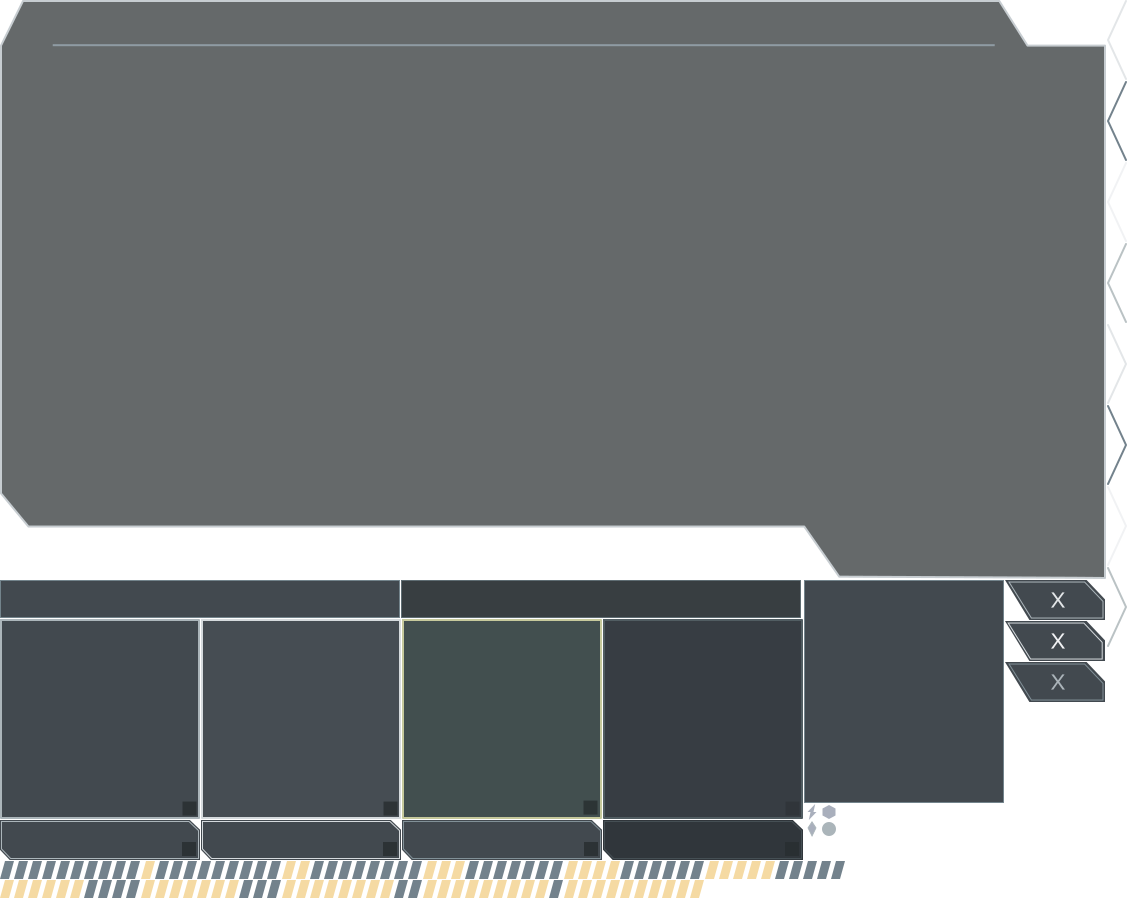
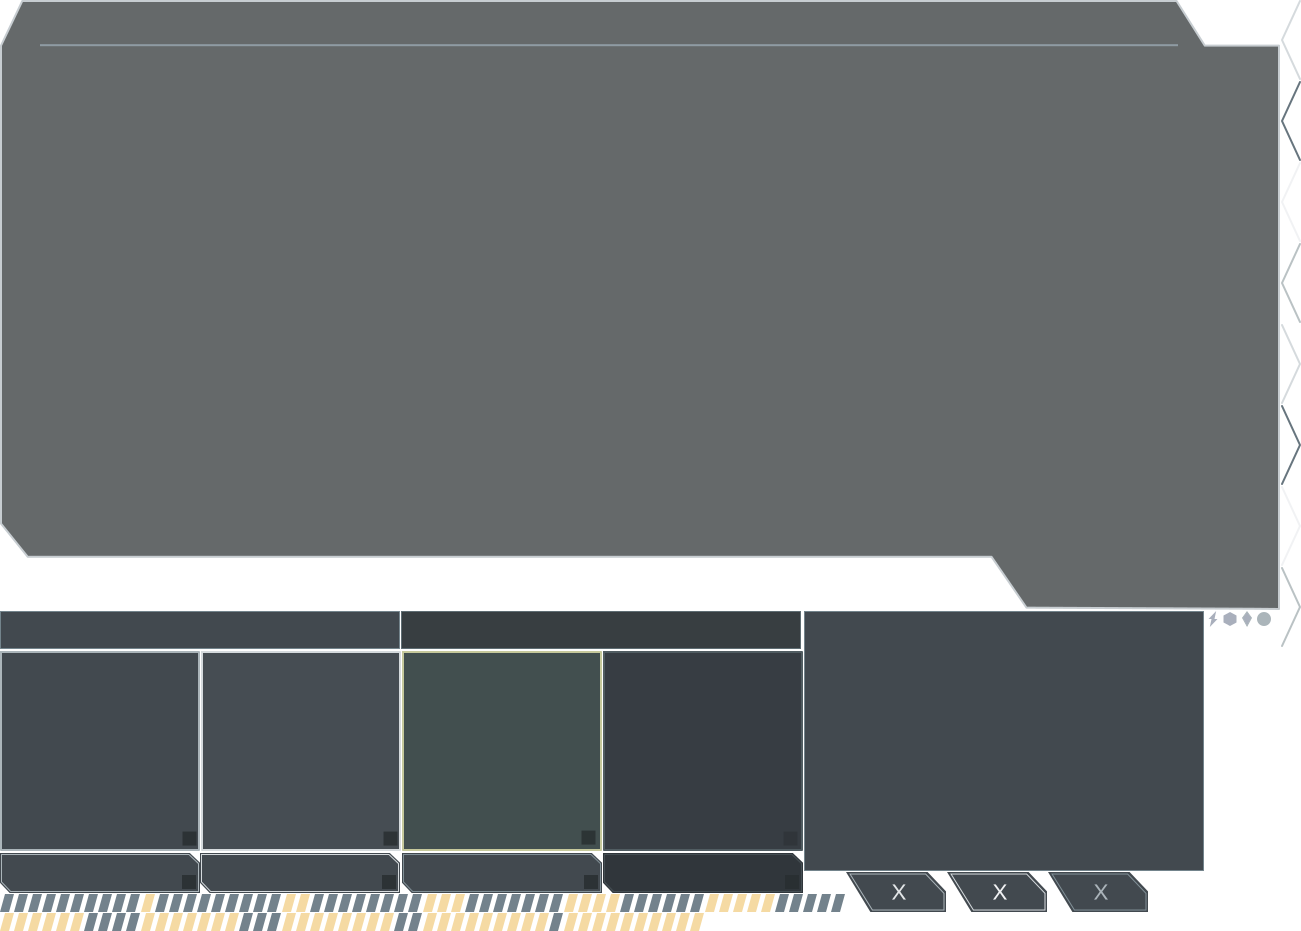
Implement new version of dialog to create elements (WIP)
Implemented, but using placeholder text for now.

Changed region(s): [[0.0, 0.0, 1.0, 1.0], [0.0, 0.0, 0.0311, 0.0312]]

diff --git a/src/Widgets/DialogNewElement.cpp b/src/Widgets/DialogNewElement.cpp
@@ -18,13 +18,14 @@
 #include <sgui/ButtonsGroup.h>
 #include <sgui/Image.h>
 #include <sgui/Label.h>
+#include <sgui/TextArea.h>
 
 #include <cassert>
 
 namespace game
 {
 
-constexpr int NUM_SLOTS = 5;
+constexpr int NUM_SLOTS = 6;
 
 class ImageButton : public lib::sgui::PushButton
 {
@@ -392,10 +393,11 @@ const int ButtonSlot::KEYS[NUM_SLOTS] = {
                                             lib::core::KeyboardEvent::KEY_3,
                                             lib::core::KeyboardEvent::KEY_4,
                                             lib::core::KeyboardEvent::KEY_5,
+                                            lib::core::KeyboardEvent::KEY_6
                                         };
 
 
-const char * ButtonSlot::SHORTCUTS[NUM_SLOTS] = { "1", "2", "3", "4", "5" };
+const char * ButtonSlot::SHORTCUTS[NUM_SLOTS] = { "1", "2", "3", "4", "5", "6" };
 
 // ===== ATTRIBUTE PANEL =====
 
@@ -546,8 +548,8 @@ DialogNewElement::DialogNewElement(const std::vector<ObjectData> & data, const c
     auto fm = lib::graphic::FontManager::Instance();
     auto tm = lib::graphic::TextureManager::Instance();
 
-    const int marginL = 52;
-    const int marginT = 6;
+    const int marginL = 40;
+    const int marginT = 8;
 
     // BACKGROUND
     lib::graphic::Texture * tex = tm->GetSprite(SpriteFileNewElementDialog, IND_NE_DIALOG_BG);
@@ -583,7 +585,7 @@ DialogNewElement::DialogNewElement(const std::vector<ObjectData> & data, const c
         mSlots->AddButton(slot);
     }
 
-    const int slotsY0 = 66;
+    const int slotsY0 = 65;
     mSlots->SetPosition(marginL, slotsY0);
 
     const int marginButtonsLR = 10;
@@ -621,7 +623,7 @@ DialogNewElement::DialogNewElement(const std::vector<ObjectData> & data, const c
     });
 
     // INFO PANEL
-    const int slotsMarginBottom = 20;
+    const int slotsMarginBottom = 15;
 
     const int panelY0 = slotsY0 + mSlots->GetHeight() + slotsMarginBottom;
     tex = tm->GetSprite(SpriteFileNewElementDialog, IND_NE_DIALOG_INFO);
@@ -634,33 +636,52 @@ DialogNewElement::DialogNewElement(const std::vector<ObjectData> & data, const c
     auto fontHeader = fm->GetFont("data/fonts/Lato-Bold.ttf", 18, lib::graphic::Font::NORMAL);
     auto fontText = fm->GetFont("data/fonts/Lato-Regular.ttf", 17, lib::graphic::Font::NORMAL);
 
-    const int marginPanelXY0 = 15;
-    const int marginPanelBlock = 35;
-    const int marginPanelIconH = 10;
+    const int marginPanelXY0 = 10;
+    const int marginPanelBlock = 20;
+    const int marginPanelIconH = 5;
     const int marginPanelIconV = 5;
     const int marginPanelIconBlock = 85;
-    const int marginPanelDataV = 10;
+    const int marginPanelDataV = 5;
+
+    // header DESCRIPTION
+    auto headerDesc = new Label("DESCRIPTION", fontHeader, panelInfo);
+    headerDesc->SetColor(colorHeader);
+    headerDesc->SetPosition(marginPanelXY0, marginPanelXY0);
+
+    int contY = headerDesc->GetY() + headerDesc->GetHeight() + marginPanelDataV;
+
+    // description text area
+    const int areaW = panelInfo->GetWidth() - (2 * marginPanelXY0);
+    const int areaH = 85;
+    mDescription = new TextArea(areaW, areaH, "Test text, over one line probably.\n"
+                                              "Second line that will finish into a third "
+                                              "one or maybe not, we'll see.\n"
+                                              "Fourth and last.", fontText, panelInfo);
+    mDescription->SetColor(colorText);
+    mDescription->SetPosition(marginPanelXY0, contY);
+
+    contY += mDescription->GetHeight() + marginPanelBlock;
 
     // header category
     auto headerCat = new Label("CATEGORY", fontHeader, panelInfo);
     headerCat->SetColor(colorHeader);
-    headerCat->SetPosition(marginPanelXY0, marginPanelXY0);
+    headerCat->SetPosition(marginPanelXY0, contY);
 
-    int contY = headerCat->GetY() + headerCat->GetHeight() + marginPanelIconV;
+    contY = headerCat->GetY() + headerCat->GetHeight() + marginPanelDataV;
 
     // text category
-    mLabelCategory = new Label("-", fontText, panelInfo);
-    mLabelCategory->SetColor(colorText);
-    mLabelCategory->SetPosition(marginPanelXY0, contY);
+    mCategory = new Label("-", fontText, panelInfo);
+    mCategory->SetColor(colorText);
+    mCategory->SetPosition(marginPanelXY0, contY);
 
-    contY += mLabelCategory->GetHeight() + marginPanelBlock;
+    contY += mCategory->GetHeight() + marginPanelBlock;
 
     // header cost
     headerCat = new Label("COST", fontHeader, panelInfo);
     headerCat->SetColor(colorHeader);
     headerCat->SetPosition(marginPanelXY0, contY);
 
-    contY = headerCat->GetY() + headerCat->GetHeight() + marginPanelIconV;
+    contY = headerCat->GetY() + headerCat->GetHeight() + marginPanelDataV;
 
     // data cost 1
     tex = tm->GetSprite(SpriteFileNewElementDialog, IND_NE_DIALOG_ICON_ENERGY);
@@ -689,12 +710,13 @@ DialogNewElement::DialogNewElement(const std::vector<ObjectData> & data, const c
     contY = imgIcon->GetY() + (imgIcon->GetHeight() - mLabelsCost[1]->GetHeight()) * 0.5f;
     mLabelsCost[1]->SetPosition(contX, contY);
 
-    contY = imgIcon->GetY() + imgIcon->GetHeight() + marginPanelDataV;
+    contX = imgIcon->GetX() + imgIcon->GetWidth() + marginPanelIconBlock;
+    contY = imgIcon->GetY();
 
     // data cost 3
     tex = tm->GetSprite(SpriteFileNewElementDialog, IND_NE_DIALOG_ICON_DIAMOND);
     imgIcon = new Image(tex, panelInfo);
-    imgIcon->SetPosition(marginPanelXY0, contY);
+    imgIcon->SetPosition(contX, contY);
 
     contX = imgIcon->GetX() + imgIcon->GetWidth() + marginPanelIconH;
 
@@ -823,7 +845,7 @@ void DialogNewElement::ShowData(int ind)
     const ObjectData & data = mData[ind];
 
     // CLASS
-    mLabelCategory->SetText(ObjectData::STR_CLASS[data.objClass]);
+    mCategory->SetText(ObjectData::STR_CLASS[data.objClass]);
 
     // COSTS
     for(int i = 0; i < NUM_COSTS; ++i)

diff --git a/src/Screens/ScreenInit.cpp b/src/Screens/ScreenInit.cpp
@@ -433,55 +433,51 @@ ScreenInit::ScreenInit(Game * game)
         const std::vector<lib::core::Rectd> rects
         {
             // BACKGROUND
-            { 0, 0, 1106, 579 },
+            { 0, 0, 1280, 610 },
             // PANELS
-            { 0, 580, 400, 38 },
-            { 401, 580, 400, 38 },
-            { 804, 580, 200, 223 },
-            { 0, 619, 200, 200 },
-            { 201, 619, 200, 200 },
-            { 402, 619, 200, 200 },
-            { 603, 619, 200, 200 },
-            { 804, 661, 20, 80 },
-            { 804, 580, 20, 80 },
-            { 825, 661, 20, 80 },
-            { 825, 580, 20, 80 },
+            { 0, 611, 400, 38 },
+            { 401, 611, 400, 38 },
+            { 804, 611, 400, 260 },
+            { 0, 651, 200, 200 },
+            { 201, 651, 200, 200 },
+            { 402, 651, 200, 200 },
+            { 603, 651, 200, 200 },
             // ATTRIBUTES BAR
-            { 0, 861, 140, 18 },
-            { 141, 861, 140, 18 },
-            { 282, 861, 140, 18 },
-            { 423, 861, 140, 18 },
-            { 564, 861, 140, 18 },
-            { 705, 861, 140, 18 },
-            { 0, 880, 140, 18 },
-            { 141, 880, 140, 18 },
-            { 282, 880, 140, 18 },
-            { 423, 880, 140, 18 },
-            { 564, 880, 140, 18 },
+            { 0, 894, 140, 18 },
+            { 141, 894, 140, 18 },
+            { 282, 894, 140, 18 },
+            { 423, 894, 140, 18 },
+            { 564, 894, 140, 18 },
+            { 705, 894, 140, 18 },
+            { 0, 913, 140, 18 },
+            { 141, 913, 140, 18 },
+            { 282, 913, 140, 18 },
+            { 423, 913, 140, 18 },
+            { 564, 913, 140, 18 },
             // BUTTON CLOSE
-            { 1005, 580, 100, 40 },
-            { 1005, 621, 100, 40 },
-            { 1005, 662, 100, 40 },
+            { 846, 872, 100, 40 },
+            { 947, 872, 100, 40 },
+            { 1048, 872, 100, 40 },
             // BUTTON BUILD
-            { 0, 820, 200, 40 },
-            { 201, 820, 200, 40 },
-            { 402, 820, 200, 40 },
-            { 603, 820, 200, 40 },
+            { 0, 853, 200, 40 },
+            { 201, 853, 200, 40 },
+            { 402, 853, 200, 40 },
+            { 603, 853, 200, 40 },
             // ICONS
-            { 804, 804, 16, 16 },
-            { 821, 804, 16, 16 },
-            { 804, 821, 16, 16 },
-            { 821, 821, 16, 16 },
+            { 1205, 611, 16, 16 },
+            { 1222, 611, 16, 16 },
+            { 1239, 611, 16, 16 },
+            { 1256, 611, 16, 16 },
             // BUTTON LEFT
-            { 1107, 0, 20, 80 },
-            { 1107, 81, 20, 80 },
-            { 1107, 162, 20, 80 },
-            { 1107, 243, 20, 80 },
+            { 1281, 0, 20, 80 },
+            { 1281, 81, 20, 80 },
+            { 1281, 162, 20, 80 },
+            { 1281, 243, 20, 80 },
             // BUTTON RIGHT
-            { 1107, 324, 20, 80 },
-            { 1107, 405, 20, 80 },
-            { 1107, 486, 20, 80 },
-            { 1107, 567, 20, 80 }
+            { 1281, 324, 20, 80 },
+            { 1281, 405, 20, 80 },
+            { 1281, 486, 20, 80 },
+            { 1281, 567, 20, 80 }
         };
 
         tm->RegisterSprite(SpriteFileNewElementDialog, rects);

diff --git a/src/Widgets/DialogNewElement.h b/src/Widgets/DialogNewElement.h
@@ -12,6 +12,7 @@ namespace lib
     {
         class ButtonsGroup;
         class Label;
+        class TextArea;
     }
 }
 
@@ -51,7 +52,7 @@ private:
     void CheckBuild(int ind);
 
 private:
-    static const int PANELS_ATT_ROWS = 6;
+    static const int PANELS_ATT_ROWS = 7;
     static const int PANELS_ATT_COLS = 2;
     static const int NUM_PANELS_ATT = PANELS_ATT_ROWS * PANELS_ATT_COLS;
 
@@ -66,7 +67,8 @@ private:
     lib::sgui::Label * mTitle = nullptr;
     lib::sgui::ButtonsGroup * mSlots = nullptr;
 
-    lib::sgui::Label * mLabelCategory = nullptr;
+    lib::sgui::TextArea * mDescription = nullptr;
+    lib::sgui::Label * mCategory = nullptr;
 
     ButtonBuild * mBtnBuild = nullptr;
     ButtonClose * mBtnClose = nullptr;

diff --git a/src/Widgets/GameUIData.h b/src/Widgets/GameUIData.h
@@ -19,10 +19,6 @@ enum SpriteIdNewElementDialog : unsigned int
     IND_NE_DIALOG_PANEL_OVER,
     IND_NE_DIALOG_PANEL_SEL,
     IND_NE_DIALOG_PANEL_DISABLED,
-    IND_NE_DIALOG_ARROW_L,
-    IND_NE_DIALOG_ARROW_L_DISABLED,
-    IND_NE_DIALOG_ARROW_R,
-    IND_NE_DIALOG_ARROW_R_DISABLED,
 
     // ATTRIBUTES BAR
     IND_NE_DIALOG_BAR0,
